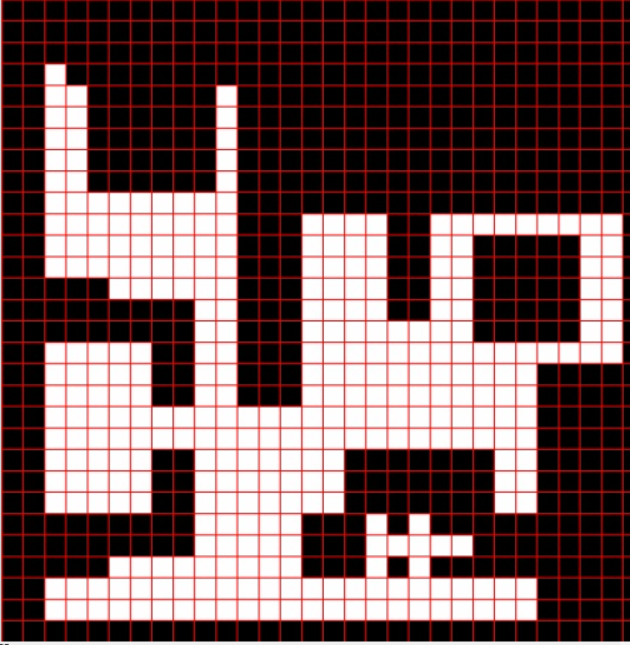
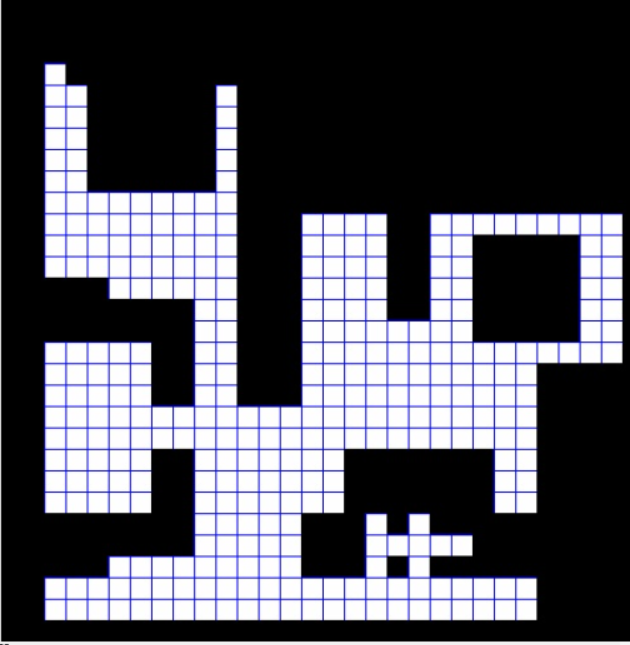
Update grid creation

diff --git a/docs/_posts/2024-09-23-P1.md b/docs/_posts/2024-09-23-P1.md
@@ -13,7 +13,27 @@ pin: true
 
 ## Creating the grid
 
+In order to create the a grid that was appropiate I first needed to decide which size of cell to go for.
 
+For this I checked a multiple of combinations and found that the best one was resizing the map to 527x527 and using a 17x17 px cell. Here are some test grids:
+
+* Cell: 19x19 | Resize: 494x494: Lost to much detail
+![19x494](19x494.png)
+
+* Cell: 19x19 | Resize: 513x513: Isolates one part of the house
+![19x513](19x513.png)
+
+* Cell: 17x17 | Resize: 510x510: Walls too thick
+![17x510](17x510.png)
+
+* Cell: 17x17 | Resize: 527x527: Good compromise
+![17x527](17x527.png)
+
+So with a size of the map and cell that seemed fine I checked that the cell size was slightly smaller than the vacuum cleaner to ensure that it cleans the cell in it's entirety.
+
+The size of the cell in the original map was 32,64 px that is 93,2% of the vacuum size.
+
+To see the issues that made this map not work, refer to the 'Issues during development' section at the end.
 
 ## Planning the path
 
